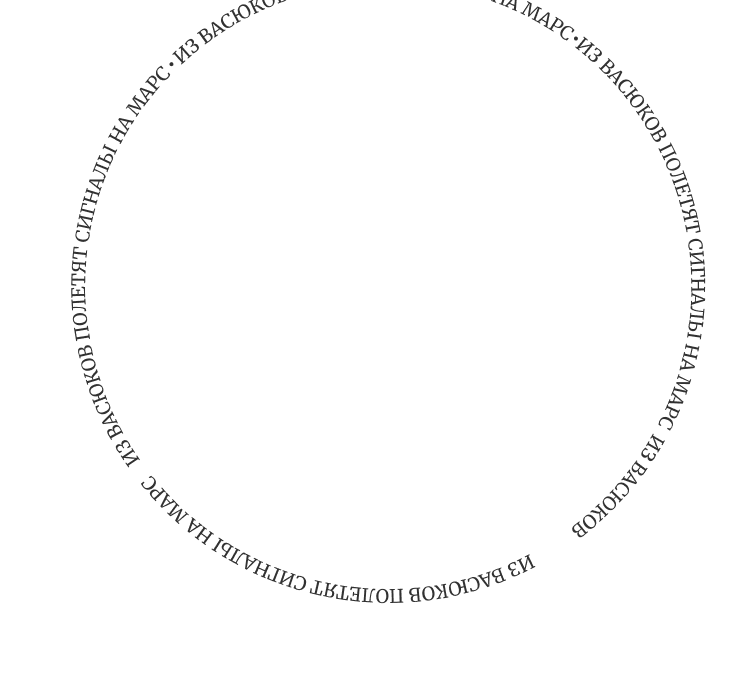
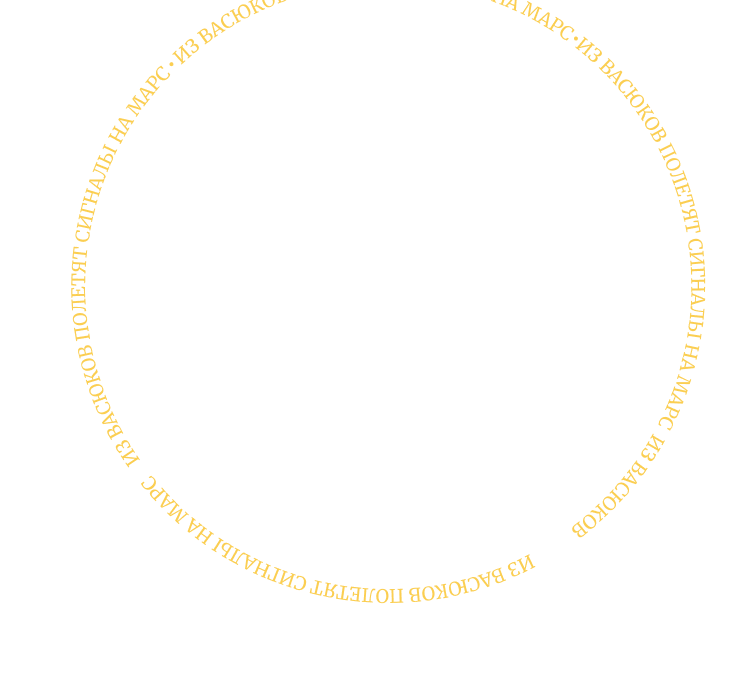
добавлено логическое разделение на стили

diff --git a/css/header-hero.css b/css/header-hero.css
@@ -1,12 +1,21 @@
 .hero {
   position: relative;
   padding: 24px 0 0;
-  background-color: transparent;
-  /* main_logo временно отключён */
-  background-image: none;
+}
+
+.hero::after {
+  content: '';
+  position: absolute;
+  z-index: 1;
+  width: 100%;
+  height: 100%;
+  background-image: url("../assets/main_logo.png"); 
   background-repeat: no-repeat;
-  background-position: center;
-  background-size: auto;
+  background-position: center bottom;
+  background-size: cover;
+  top: 0;
+  left: 0;
+  pointer-events: none;
 }
 
 .hero::before {
@@ -22,8 +31,36 @@
   opacity: 0.5;
 }
 
+
+
 .header {
   height: 700px;
+}
+
+.hero__ellipse {
+  position: absolute;
+  top: -30px;
+  right: 32px;
+  width: 660px;
+  height: 660px;
+  background-image: url("../assets/ellipse_border.png"), url("../assets/ellipse.png");
+  background-size: cover, contain;
+  background-position: -52px 28px, center;
+  background-repeat: no-repeat, no-repeat;
+  pointer-events: none;
+  z-index: 0;
+  animation: hero-ellipse-rise-in 250ms ease-out both;
+}
+
+@keyframes hero-ellipse-rise-in {
+  from {
+    opacity: 0;
+    transform: translateY(120px);
+  }
+  to {
+    opacity: 1;
+    transform: translateY(0);
+  }
 }
 
 .hero__pawn {
@@ -40,7 +77,7 @@
 
 .hero__horse {
   position: absolute;
-  right: 300px;
+  right: 400px;
   bottom: 41px;
   width: 180px;
   height: 180px;
@@ -295,13 +332,8 @@
 
 @media (prefers-reduced-motion: reduce) {
   .hero__pawn,
-  .hero__horse {
+  .hero__horse,
+  .hero__ellipse {
     animation: none !important;
   }
-}
-
-/* Временно: декоративные фигуры (пешка, конь) в шапке скрыты */
-.hero__pawn,
-.hero__horse {
-  display: none !important;
 }

diff --git a/css/base.css b/css/base.css
@@ -36,7 +36,7 @@ body {
   font-size: 1rem;
   line-height: 1.55;
   color: var(--color-text);
-  background: linear-gradient(180deg, var(--color-bg) 0%, var(--color-bg-alt) 100%);
+  background-color: #e9ded4;
 }
 
 img {

diff --git a/index.html b/index.html
@@ -58,6 +58,7 @@
           </div>
         </div>
       </div> 
+      <div class="hero__ellipse" aria-hidden="true"></div>
       <div class="hero__horse" aria-hidden="true"></div>
       <div class="hero__pawn" aria-hidden="true"></div>
       <div class="ticker" aria-hidden="true">